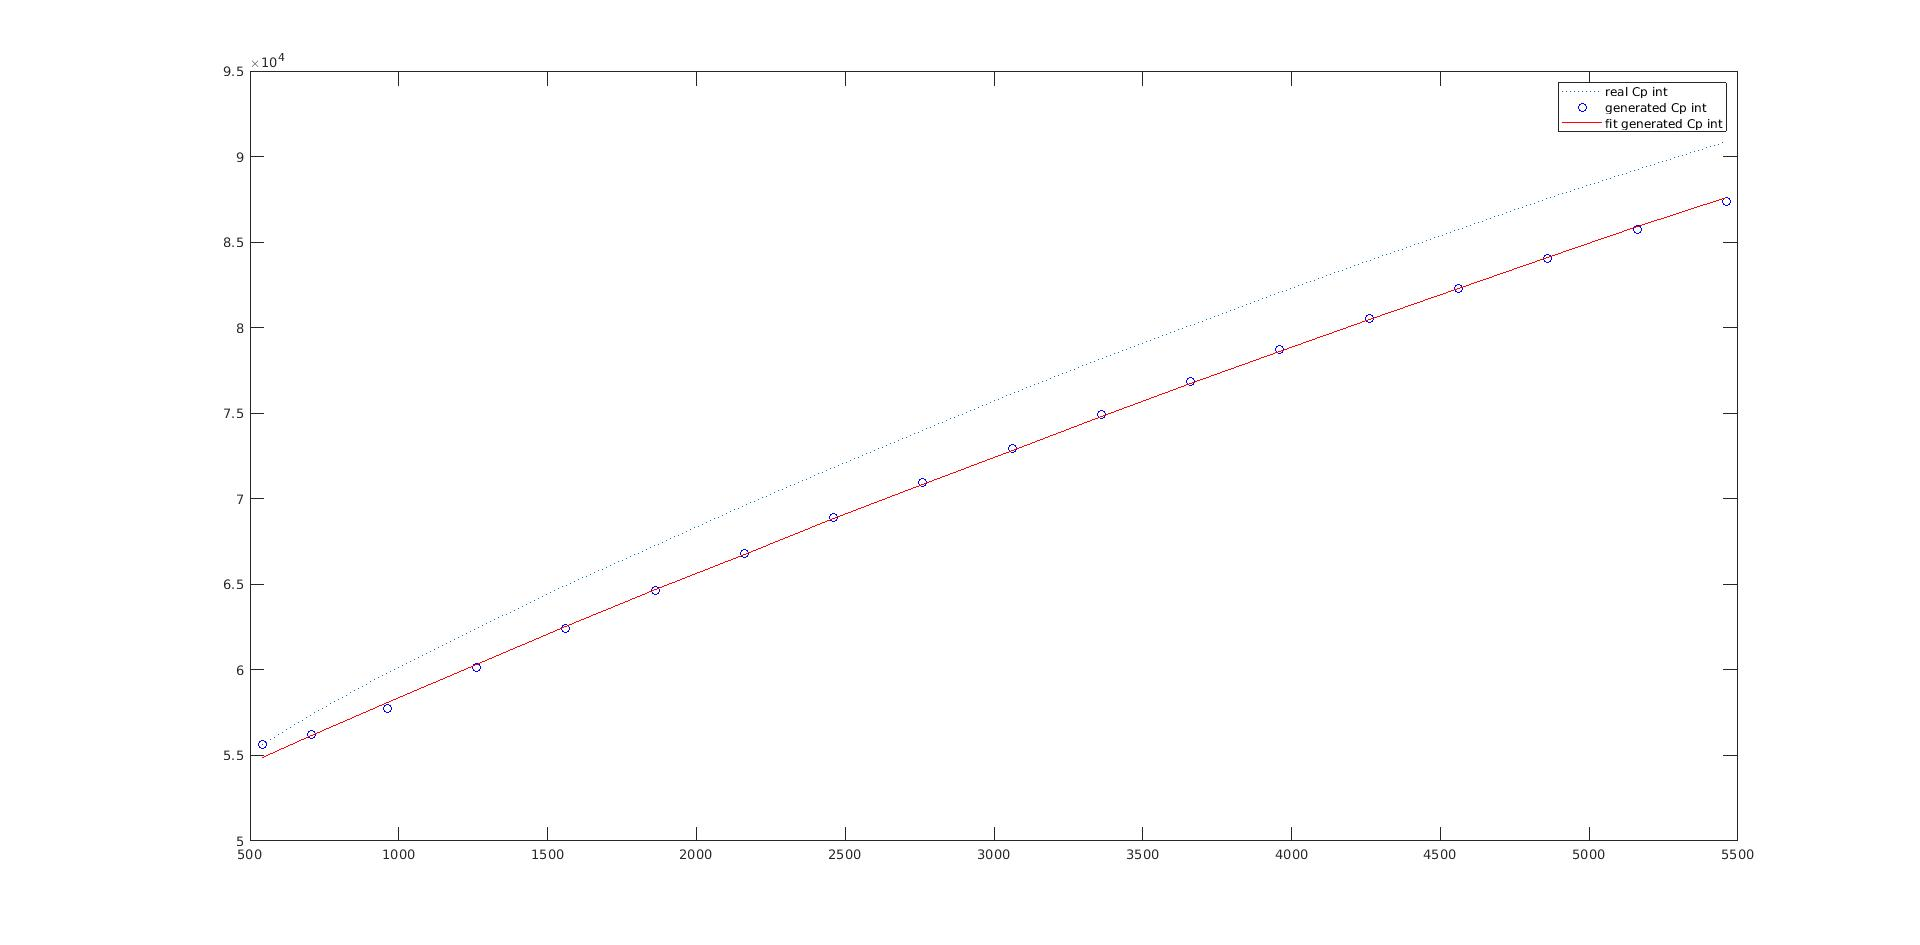
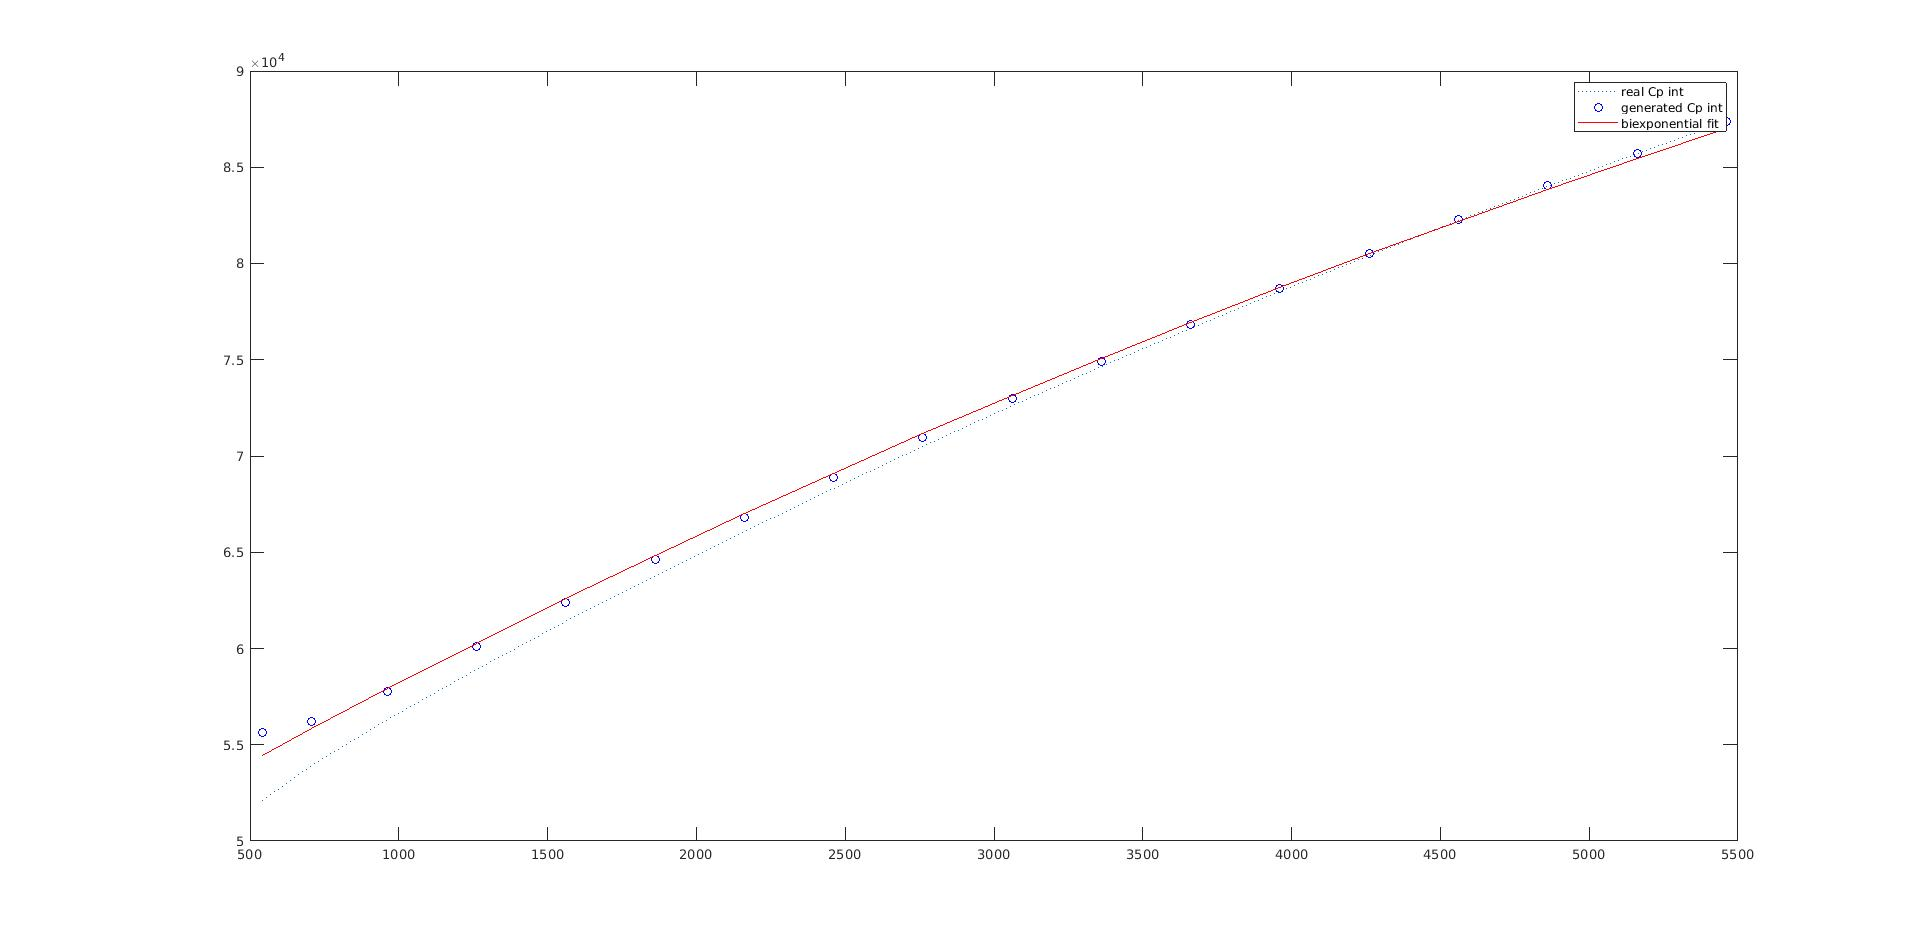
Removed errors, changed graphics to fix end instead of start

diff --git a/IterativeAlgo/test_exponent.m b/IterativeAlgo/test_exponent.m
@@ -35,21 +35,22 @@ iterResult = IterativeAlgorithm(relTAC, ISAresult, startTimes);
 %%%%%%%%%%%%%%%%%%%%%%%%%%%%%%%%%%%%%%%%%%%%%%%
 times = (trimmedTAC(:,1) + trimmedTAC(:, 2)) / 2;
 
-results = fit2E(iterResult, times, singleBloodDraw, bloodDrawTime, ...
+[results, error] = fit2E(iterResult, times, singleBloodDraw, bloodDrawTime, ...
     bloodDrawErrFactor);
 
 %%% Display data...
 sourceCpInt = cumtrapz(sourceCp(:, 1), sourceCp(:, 2));
 
 CpIntAtTimes = interp1(sourceCpInt, times);
-CpIntAtTimes = CpIntAtTimes - CpIntAtTimes(1) + iterResult(1);
+CpIntAtTimes = CpIntAtTimes - CpIntAtTimes(end) + iterResult(end);
+%Fix end, not start!!
+ISAresult = ISAresult - ISAresult(end) + iterResult(end);
+%Fixing ISA too...
 
 figure;
 plot(times, CpIntAtTimes, ':', times, ISAresult, 'o-', ...
     times, iterResult, 'o-', times, model2E(results, times), 'o--');
 legend('real Cp result', 'ISA result', 'It Alg result', 'biexponential model');
-
-error = phi1(results);%/trapz(Cpint1.^2) ;
 
 % Includes integral of Y squared.
 

diff --git a/IterativeAlgo/fit2E.m b/IterativeAlgo/fit2E.m
@@ -1,4 +1,4 @@
-function results = fit2E(CpPredicted, times, singleBloodDraw, ...
+function [results, error] = fit2E(CpPredicted, times, singleBloodDraw, ...
     bloodDrawTime, singleBloodDrawErrFactor)
 %FIT2E Summary of this function goes here
 %   Detailed explanation goes here
@@ -13,7 +13,8 @@ function results = fit2E(CpPredicted, times, singleBloodDraw, ...
         [0.1 0.002 0.1 0 0], ...
         [-1e6 0 -1e6 0 0], ...
         [0 0.01 0 0.001 2e6 ], 1e6, 1e-7, 0.90);
-    disp(['Time elapsed in round ' num2str(1) ':']);
     toc;
+    
+    error = phi1(results);%/trapz(Cpint1.^2) ;
 end
 
